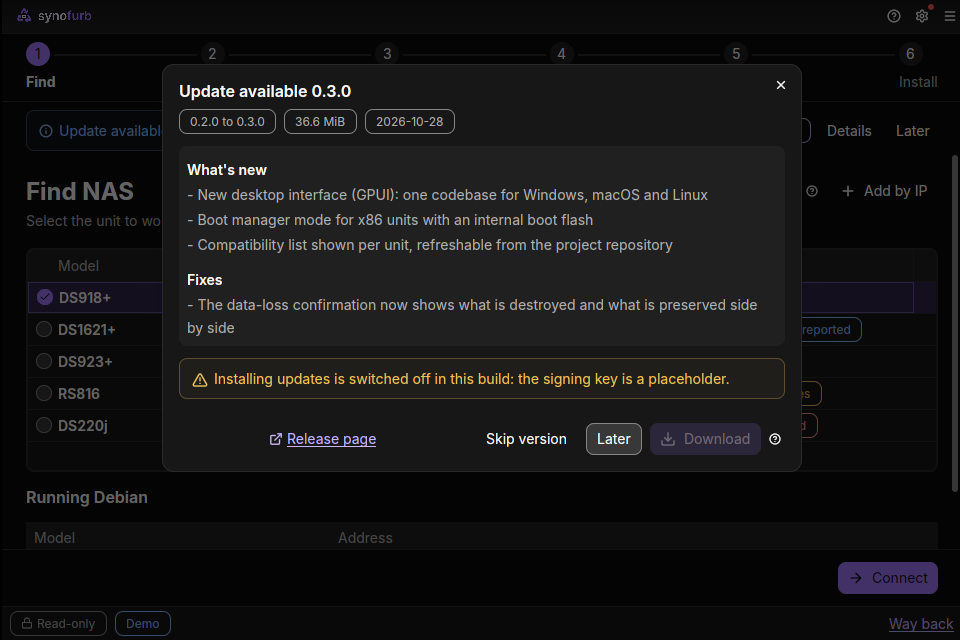
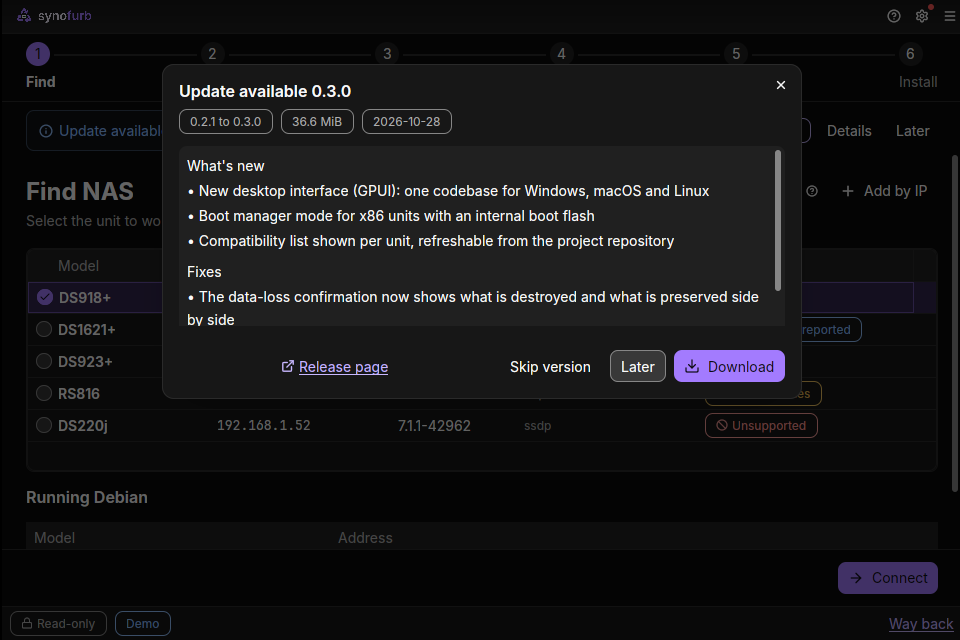
GUI: visible update states, typed check failures, unsigned-update dialog, About update line, no always-on dot
Claude-Session: https://claude.ai/code/session_01KG7vnip8q8iZtfbUyzbgBH

diff --git a/crates/synofurb/src/ui/screens/update.rs b/crates/synofurb/src/ui/screens/update.rs
@@ -213,8 +213,9 @@ impl Render for UpdateView {
                 h_flex()
                     .w_full()
                     .items_center()
+                    .flex_wrap()
                     .gap(px(8.0))
-                    .child(div().flex_1().when_some(url, |d, u| {
+                    .child(div().flex_1().min_w(px(120.0)).when_some(url, |d, u| {
                         d.child(
                             Button::new("upd-page")
                                 .link()
@@ -224,7 +225,7 @@ impl Render for UpdateView {
                                 .on_click(move |_, _, cx| cx.open_url(&u)),
                         )
                     }))
-                    .children(buttons),
+                    .child(h_flex().gap(px(8.0)).items_center().flex_wrap().children(buttons)),
             )
             .into_any_element()
     }

diff --git a/CHANGELOG.md b/CHANGELOG.md
@@ -2,6 +2,17 @@
 
 ## 0.2.2 (unreleased)
 
+### Fixed (desktop app, updates)
+- **A failed update check was almost invisible** (the owner saw the button "blink once"). Settings, Updates and the About page now show one line for every state: checking (spinner), "0.2.2 is current", "0.2.2 available" (Details) or "Couldn't check: <reason>" with the full reason behind an (i) and a "Check again" button; the result stays until the next check. The About page has a "Check for updates" button and status line.
+- **"Offline" was shown for any failed check.** The failure is now typed: only a transport failure (GitHub's API host cannot be reached) sets the Offline chip. A 404 (a private repository) says "Releases not found. If the repository is private, the update check cannot see them."; a rate limit shows the engine's hint with the time; no release says "No release found for this system."
+- **The red dot on the Settings button was always drawn** (the badge ignored its count). It now appears only while an update waits, and the button's name says so.
+- **The About page said "dev" on release builds.** It read an environment variable the build never set; it now shows `release` for a build made from a tag matching the version, `dev <commit>` otherwise and `local build` without git information.
+- A manual "Check for updates" shows an update even when that version was skipped or snoozed.
+
+### Added (desktop app, updates)
+- The update dialog for a release that is not signed (placeholder key): plain-text release notes in a scroll area with a scrollbar, ONE warning line, a required "I understand and want to install it" checkbox with a plain-words risk note, "Download and install" (disabled with a visible reason until ticked), then "Unsigned, checksum verified" with the SHA-256. One warning only (the duplicate "signing key is a placeholder" and "no SHA256SUMS.minisig" alerts are gone).
+- Demo screens `updates-checking`, `updates-current`, `updates-available`, `updates-failed-notfound`, `updates-failed-offline`, `updates-unsigned`, `settings-updates`, `update-unsigned`; screenshots `design/screenshots/v2-app-update*-*.png`.
+
 ### Added
 - **Opt-in unsigned update path** while the update signing key is still the placeholder (`updater::unsigned_allowed()`): `download_unchecked_signature(info, dest, UnsignedConsent::acknowledged(), progress)` downloads with the same host policy and size limits and checks the SHA-256 against the `SHA256SUMS` of the same release (the `.minisig` is not needed). It is refused (`UpdateError::UnsignedNotAllowed`) as soon as a real key is embedded, so signatures become mandatory automatically. `VerifiedDownload` now says `signed` / `integrity: Signed | ChecksumOnly`; `UpdateInfo::install_mode()` reports `Signed | UnsignedWithConsent | Blocked(reason)`; `updater::UNSIGNED_WARNING` is the shared warning text. CLI: `self-update --allow-unsigned` (needs `--yes` without a terminal; `--yes` alone never enables it); `self-update --check --json` adds `install_mode`, `install_blocked_reason`, `signature_asset`, `unsigned_allowed`, `notes_plain`. The refusal text now says how to opt in.
 - `updater::plain_release_notes(md)` and `UpdateInfo::notes_plain()`: release notes as readable plain text instead of raw Markdown.

diff --git a/docs/UPDATES.md b/docs/UPDATES.md
@@ -156,6 +156,44 @@ What it does not protect against:
 * **Legacy-mode minisign signatures are accepted** (plain Ed25519 over the file) as well as the default pre-hashed mode.
   Both need the same secret key.
 
+## What the desktop app shows
+
+Everywhere an update is mentioned (Settings, Updates; the About page; the dot on the Settings button) the app shows one of these
+states, and a click on "Check for updates" always ends in one of them and stays on screen:
+
+| State | Text | Button |
+|---|---|---|
+| never checked | Not checked yet | Check for updates |
+| checking | Checking for updates (spinner) | Check for updates (disabled while it runs) |
+| current | `<version> is current` | Check for updates |
+| available | `<version> available` | Details (primary): opens the update dialog |
+| failed | Couldn't check: `<short reason>`, with the full reason behind the (i) | Check again |
+
+Why a check fails, and what the app says (the kind is typed in `ui/updates.rs`, never read from message text):
+
+| Engine error | Reason shown | Offline chip? |
+|---|---|---|
+| `Http`, and GitHub's API host cannot be reached (a TCP connection fails) | No Internet connection | **yes**, the only case |
+| `Http`, and GitHub is reachable (an error status) | GitHub error, with the engine's text | no |
+| `NotFound` (HTTP 404) | Releases not found: "GitHub did not find the releases. If the repository is private, the update check cannot see them." | no |
+| `RateLimited` | GitHub rate limit, with the engine's hint ("try again in about N minute(s)") | no |
+| `NoRelease` | No release found: "No release found for this system." | no |
+| `Parse` | Unreadable answer, with the engine's text | no |
+| anything else | Check failed, with the engine's text | no |
+
+**A private repository.** The check sends no credentials, so while the repository is private GitHub answers 404 and the app says
+"Releases not found" (it is not "offline"). Making the repository public, or publishing releases in a public one, fixes it. A
+manual check always shows what it finds, even a version you skipped or snoozed; the automatic check at start respects those.
+
+**An unsigned release.** While the build's signing key is the placeholder (see the unsigned path above) the update dialog shows
+the plain-text release notes in a scroll area, one calm warning line ("This release is not signed. synofurb checks its SHA-256
+only."), a required checkbox "I understand and want to install it" (its (i) explains in plain words that a tampered release would
+not be detected), and a primary "Download and install" that stays disabled, with the reason beside it, until the box is ticked.
+After the download the dialog shows "Unsigned, checksum verified" with the first characters of the SHA-256 and "Restart and
+update". A release that cannot be installed at all (no build for this system, no `SHA256SUMS`) shows its reason as the one
+warning and a disabled button. With a real key and a signed release nothing of this appears: the signed path, no checkbox. The
+"Release page" link (always a github.com address) stays in every state.
+
 ## Limits
 
 * No background polling; checks happen when you ask (or when the app's UI asks).

diff --git a/docs/GUI.md b/docs/GUI.md
@@ -14,9 +14,9 @@ synofurb gui                              # the real thing
 synofurb gui --demo --screen confirm      # built-in demo unit, nothing touches the network
 ```
 
-Demo screens (59, see `state::DEMO_SCREEN_NAMES`): `inventory connect inspect goal plan plan-keep system confirm install
+Demo screens (67, see `state::DEMO_SCREEN_NAMES`): `inventory connect inspect goal plan plan-keep system confirm install
 install-after-ponr failed failed-pre failed-post done update settings bootmgr recover manage manage-* recovery-* help
-help-topic about dlg-* welcome welcome-2..welcome-5` (`first-launch` is an alias of `welcome`). `install`, `failed` and `done` replay a scripted event stream.
+help-topic about dlg-* welcome welcome-2..welcome-5 update-unsigned updates-{checking,current,available,failed-notfound,failed-offline,unsigned} settings-updates` (`first-launch` is an alias of `welcome`). `install`, `failed` and `done` replay a scripted event stream.
 
 | Variable | Effect |
 |---|---|
@@ -65,6 +65,17 @@ button and a click outside close it for this launch only on steps 1 to 4, and on
 (unticking clears it). Reopen it from Help (first row) or the title-bar menu. Demo: `--screen welcome` and
 `welcome-2` to `welcome-5`; screenshots `design/screenshots/v2-app-welcome-*.png` (steps, popovers, unticked box, menu
 path, 1180 x 760, key walk).
+
+**Update states** (`updates.rs` pure, `screens/update_status.rs`, `screens/update.rs`; text and failure table in `docs/UPDATES.md`). One line
+(`status_line`) is used in Settings, Updates and on the About page: checking (spinner), current, available (Details), or "Couldn't
+check: <reason>" with the full reason behind an (i) and "Check again"; a click on "Check for updates" always ends in one of them and
+stays. `updates::classify` turns the engine's `UpdateError` into a typed `FailKind`; only `Offline` (a failed TCP connection to
+GitHub's API host, asked once for the engine's ambiguous `Http` error, never read from message text) sets the Offline chip
+(`App::offline_app`). The dot on the Settings button shows only while an update waits (the stock `Badge::dot` ignores its count, so
+the badge is not added otherwise). The update dialog follows `UpdateInfo::install_mode()`: signed (unchanged), unsigned with consent
+(one warning, a required checkbox, "Download and install" disabled with a reason until ticked, then "Unsigned, checksum verified"), or
+blocked (the reason as the one warning). About shows `release` / `dev <commit>` / `local build` from `SYNOFURB_GIT_DESCRIBE_BUILD`.
+On About, a waiting update takes the page's primary (Details) and Copy diagnostics becomes an outline button.
 
 **Six steps.** Find, Connect (with Inspect), Goal (with Quick setup), Setup (Storage and System tabs), Confirm, Install
 (with Done). Settings, About, Help, Manage, Boot manager and Recovery are side screens. The Stepper is the widget from

diff --git a/design/v2/UX-SPEC.md b/design/v2/UX-SPEC.md
@@ -591,6 +591,8 @@ The wording of step 4 follows `docs/RECOVERY.md`, `docs/BOOT.md` and the "How re
 
 ### D11 Update
 
+**Revision (updates, 0.2.2).** The update line (Settings, Updates and About) has five states: not checked, checking (spinner), current, available (Details, primary), "Couldn't check: <reason>" (full reason in the (i), "Check again"); the dot on the Settings button shows only while an update waits. A failed check is typed (private repository: "Releases not found"; rate limit with the time; no release; transport failure: "No Internet connection", the only state that sets the Offline chip). The dialog for a release that is not signed has plain-text notes in a scroll area, one warning line ("This release is not signed. synofurb checks its SHA-256 only."), the required checkbox "I understand and want to install it" with an (i), and "Download and install" disabled with a visible reason until ticked; afterwards "Unsigned, checksum verified". Words: Settings and About add at most 14 words of their own (status, note, button); the dialog at most 24. Details and the failure table: `docs/UPDATES.md`.
+
 **Purpose:** Offer an app update without interrupting work.
 
 | # | Visible element (reading order) | Widget | Words |
